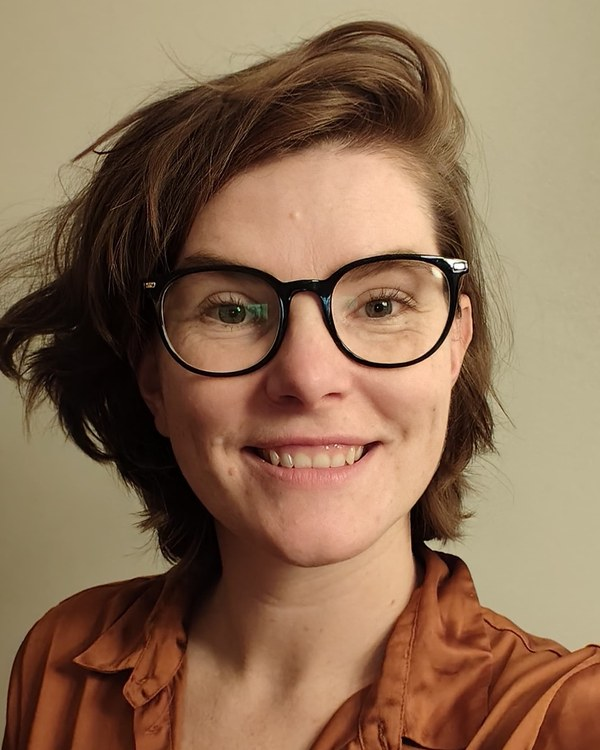
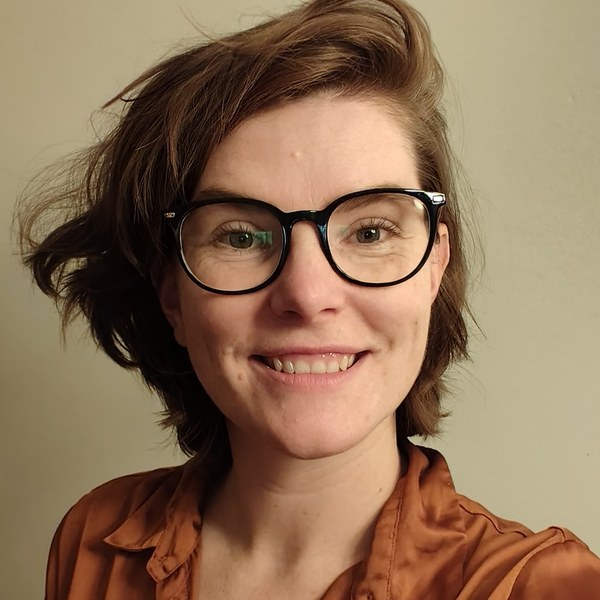
Ronde foto's: Josta (hoger uitgesneden) en Eva
Claude-Session: https://claude.ai/code/session_019qPekGDdUwgqVTfZ15Ud5q

diff --git a/src/template.html b/src/template.html
@@ -30,8 +30,8 @@ a{color:var(--c-hoofd)}a:hover{color:var(--c-donker)}
 .m-person{display:grid;grid-template-columns:minmax(0,1fr);gap:24px;justify-items:center}
 .m-person > div:last-child{justify-self:stretch}
 .m-person h3,.m-person h3 + p{text-align:center}
-.m-photo{width:140px;height:175px;border-radius:16px;background:var(--c-hoofd);display:flex;align-items:center;justify-content:center;font-size:0.7rem;letter-spacing:0.14em;text-transform:uppercase;color:var(--c-zand);flex:none}
-@media (min-width: 760px){.m-person{grid-template-columns:170px minmax(0,1fr);gap:48px;align-items:start;justify-items:start}.m-photo{width:170px;height:212px}.m-person h3,.m-person h3 + p{text-align:left}}
+.m-photo{width:140px;height:140px;border-radius:50%;background:var(--c-hoofd);display:flex;align-items:center;justify-content:center;font-size:0.7rem;letter-spacing:0.14em;text-transform:uppercase;color:var(--c-zand);flex:none}
+@media (min-width: 760px){.m-person{grid-template-columns:170px minmax(0,1fr);gap:48px;align-items:start;justify-items:start}.m-photo{width:170px;height:170px}.m-person h3,.m-person h3 + p{text-align:left}}
 .m-toggle{align-self:flex-start;display:inline-flex;align-items:center;gap:8px;background:none;border:0;border-bottom:1px solid currentColor;color:#FFFFFF;transition:color .15s;font:inherit;font-size:0.72rem;font-weight:700;letter-spacing:0.2em;text-transform:uppercase;padding:12px 0 8px;min-height:44px;cursor:pointer}
 .m-toggle svg{width:16px;height:16px;fill:none;stroke:currentColor;stroke-width:2;stroke-linecap:round;stroke-linejoin:round;transition:transform .2s}
 .m-cards{display:grid;grid-template-columns:repeat(auto-fit,minmax(min(100%,250px),1fr));gap:20px}
